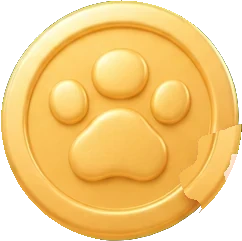
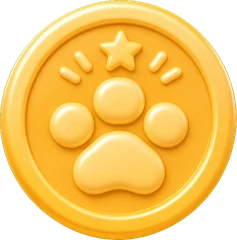
玩個毛：新代幣、練舞室的門（施工中＋開放中備用）（v2.10）
Claude-Session: https://claude.ai/code/session_012PDdvkLzoB4Qt6KvYwZcUp

diff --git a/index.html b/index.html
@@ -1159,8 +1159,8 @@ img{-webkit-user-drag:none}
 .arcm{position:absolute;transform:translate(-50%,-100%);border:0;background:none;padding:0;cursor:pointer}
 .arcm>img{display:block;width:100%;pointer-events:none;filter:drop-shadow(0 8px 6px rgba(60,30,60,.35))}
 .arcm .lbl{position:absolute;left:50%;bottom:-1.6em;transform:translateX(-50%);white-space:nowrap;background:rgba(255,250,238,.95);border:2px solid #c98bd6;color:#7a3f8a;border-radius:999px;padding:0 10px;font-weight:800;font-size:clamp(11px,3.2cqw,15px)}
-.arcdoor{position:absolute;transform:translate(-50%,-100%);border:0;padding:0;cursor:pointer;background:linear-gradient(#b98be0,#8e5fc0);border:4px solid #ffe08a;border-bottom:0;border-radius:999px 999px 0 0;color:#fff;font-weight:900;display:flex;flex-direction:column;align-items:center;justify-content:center;text-shadow:0 2px 3px rgba(0,0,0,.35);font-size:clamp(10px,3cqw,15px);line-height:1.3;box-shadow:inset 0 0 18px rgba(255,255,255,.35)}
-.arcdoor img{position:absolute;inset:0;width:100%;height:100%;object-fit:contain}
+.arcdoor{position:absolute;transform:translate(-50%,-100%);border:0!important;padding:0;cursor:pointer;background:none!important;box-shadow:none!important;outline:0;filter:drop-shadow(0 6px 4px rgba(60,30,60,.3));color:#fff;font-weight:900;display:flex;flex-direction:column;align-items:center;justify-content:center;text-shadow:0 2px 3px rgba(0,0,0,.35);font-size:clamp(10px,3cqw,15px);line-height:1.3;}
+.arcdoor img{position:absolute;inset:0;width:100%;height:100%;object-fit:contain;pointer-events:none}
 .arcov{position:fixed;inset:0;z-index:99990;background:radial-gradient(circle at 50% 30%,#5a3a7a,#1f1430 75%);display:flex;flex-direction:column;align-items:center;color:#fff;overflow:hidden;touch-action:manipulation;user-select:none}
 .arcov .ah{display:flex;width:100%;max-width:440px;align-items:center;justify-content:space-between;padding:max(12px,env(safe-area-inset-top)) 14px 6px;font-weight:800}
 .arcov .ah .apill{background:rgba(255,255,255,.15);border-radius:999px;padding:4px 10px;display:flex;gap:4px;align-items:center;white-space:nowrap}
@@ -4709,7 +4709,7 @@ function wallShop(tabs){const hid=shHid(),h=house(hid),s=showNorm(h.show),g=DB.g
 const ARC_POS={x:640,y:1300},ARC_SC=1.25,TOK_P=[[1,100],[5,450],[12,1000]];
 const ARC_PRIZE=[{k:'tok',n:'代幣 ×1',t:12},{k:'coin',n:'🪙300 金幣',t:50},{k:'fig',n:'隨機公仔（普通款）',t:60}];
 function arcG(){const g=DB.game;if(!g.arc||typeof g.arc!=='object')g.arc={tok:0,tkt:0};g.arc.tok=+g.arc.tok||0;g.arc.tkt=+g.arc.tkt||0;return g.arc}
-const tokIcon='<img class="mic" src="assets/token.webp" alt="" style="width:1.3em;height:1.3em;vertical-align:-.3em">';
+const tokIcon='<img class="mic" src="assets/token.webp?v=2" alt="" style="width:1.3em;height:1.3em;vertical-align:-.3em">';
 // 娃娃機裡的公仔：上架系列的普通款
 function arcPool(){const L=[];bbOn().forEach(S=>S.t.forEach(i=>{const id=bbId(S.id,i);if(ITEMS[id])L.push(id)}));return L}
 function openArcade(){if(!needMe())return;sfx&&sfx('tap');const v=sceneOpen('arcv','玩個毛','🎪 遊樂場','assets/arcade_room.webp','<img class="mic" src="assets/icon_down.webp" alt="">小島');renderArcade()}
@@ -4718,7 +4718,7 @@ function renderArcade(){const v=$('#arcv');if(!v)return;const st=v.querySelector
   put('prize_counter',600,905,215,'🎟 獎品櫃台',arcPrize);
   put('claw_machine',230,1175,260,'🧸 娃娃機',clawGame);
   put('mole_machine',620,1185,280,'🔨 打地鼠',moleGame);
-  const d=document.createElement('button');d.className='arcdoor';d.innerHTML='<img src="assets/dance_door.webp" alt="" onerror="this.remove()"><span>💃</span><span>練舞室</span>';Object.assign(d.style,hp(330,905),{width:(140/RW*100)+'%',height:(210/RH*100)+'%',zIndex:900});
+  const d=document.createElement('button');d.className='arcdoor';d.innerHTML='<img src="assets/dance_door.webp" alt="">';Object.assign(d.style,hp(330,905),{width:(190/RW*100)+'%',height:(190*520/412/RH*100)+'%',zIndex:900});
   d.onclick=e=>{e.stopPropagation();openModal(`<div style="text-align:center"><div style="font-size:56px">🚧</div><h3>練舞室還在蓋</h3><p class="lead">工人正在趕工中……<br>之後這裡會有跟朋友 PK 的遊戲，敬請期待！</p></div><div class="row2"><button data-close class="primary">好期待</button></div>`)};st.appendChild(d);
   v.querySelector('.cbtns').innerHTML=`<button class="act" id="arctok">${tokIcon} ${a.tok}</button><button class="act" id="arctkt">🎟 ${a.tkt}</button><button class="act" id="arcbuy">買代幣</button><button class="act" id="arcrk">🏆 排行</button>`;
   $('#arctok').onclick=$('#arcbuy').onclick=arcBuy;$('#arctkt').onclick=arcPrize;$('#arcrk').onclick=arcRank}
@@ -4732,7 +4732,7 @@ function arcPrize(){const a=arcG(),g=DB.game;openModal(`<h3>🎟 獎品櫃台
     if(x.k==='tok'){a.tok++;toast('換到 1 枚代幣！')}else if(x.k==='coin'){grant(0,300);toast('換到 🪙300！')}else{const P=arcPool(),id=P[Math.floor(Math.random()*P.length)];bagAdd(id,1);toast(`換到「${xcName(id)}」！放進背包了`)}
     save();sfx('gift');renderArcade();arcPrize()})}
 function arcOv(title,a){const ov=document.createElement('div');ov.className='arcov';const A=arcG();
-  ov.innerHTML=`<div class="ah"><button class="x">← 離開</button><b>${title}</b><span class="apill"><img src="assets/token.webp" alt=""><b class="atk">${A.tok}</b>　🎟 <b class="att">${A.tkt}</b></span></div>`;
+  ov.innerHTML=`<div class="ah"><button class="x">← 離開</button><b>${title}</b><span class="apill"><img src="assets/token.webp?v=2" alt=""><b class="atk">${A.tok}</b>　🎟 <b class="att">${A.tkt}</b></span></div>`;
   document.body.appendChild(ov);ov.querySelector('.x').onclick=()=>{ov.remove();renderArcade()};const upd=()=>{ov.querySelector('.atk').textContent=arcG().tok;ov.querySelector('.att').textContent=arcG().tkt};return {ov,upd}}
 // ---------- 🧸 娃娃機 ----------
 const CLAW={a:352/486,x:[16,84],top:29,floor:64.5,cw:15,ca:319/419,pw:13};
@@ -5595,7 +5595,7 @@ function announceLetters(){if(!DB.me)return;let seen=[];try{seen=JSON.parse(loca
     sfx('gift');$('#lgopen').onclick=()=>openLetter(nw[0].id,()=>$('#bell').click())};
   setTimeout(go,1800)}
 // ================= 自動更新：發現新版本就重新載入 =================
-const APP_VER='v2.09';
+const APP_VER='v2.10';
 function checkUpdate(){
   if(!/^https?:/.test(location.protocol)||!API_URL)return;
   if(!$('#modal').classList.contains('hidden'))return; // 正在填表單時不打斷
